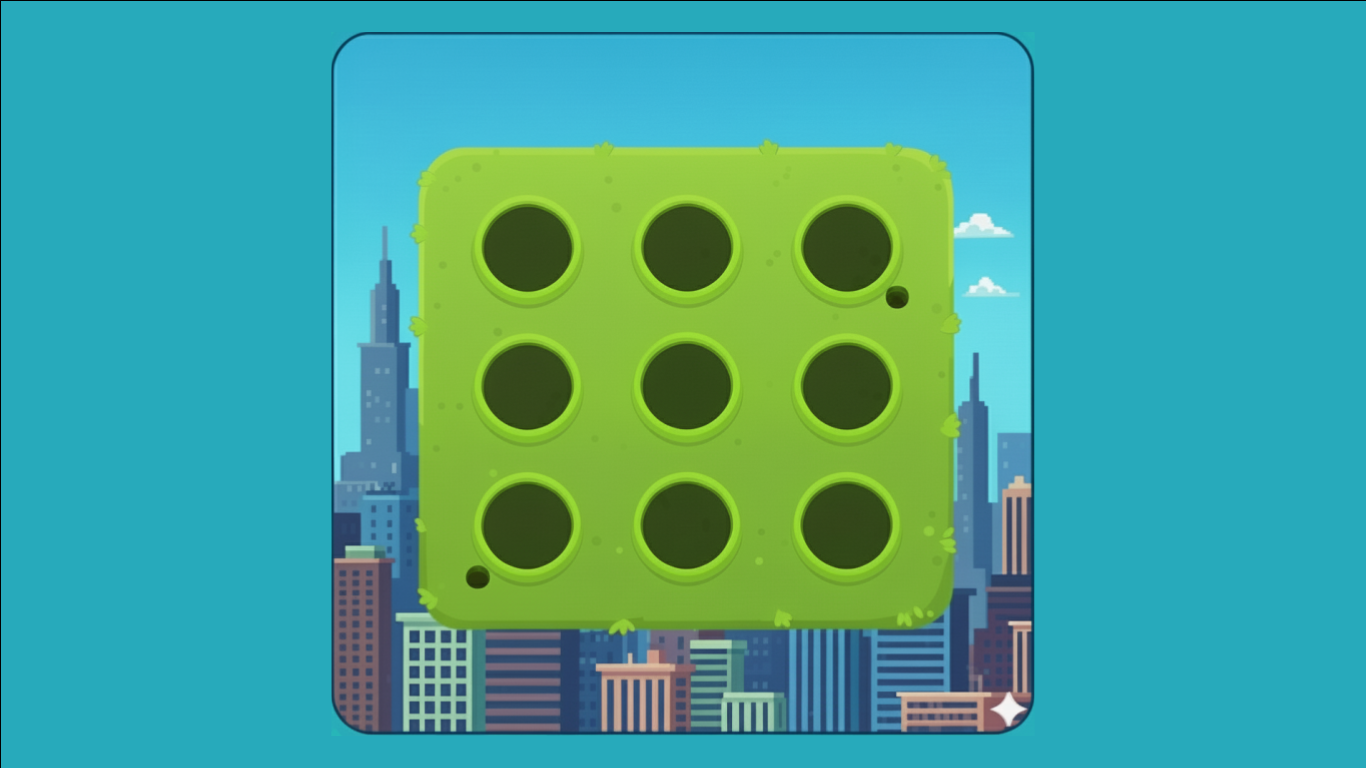
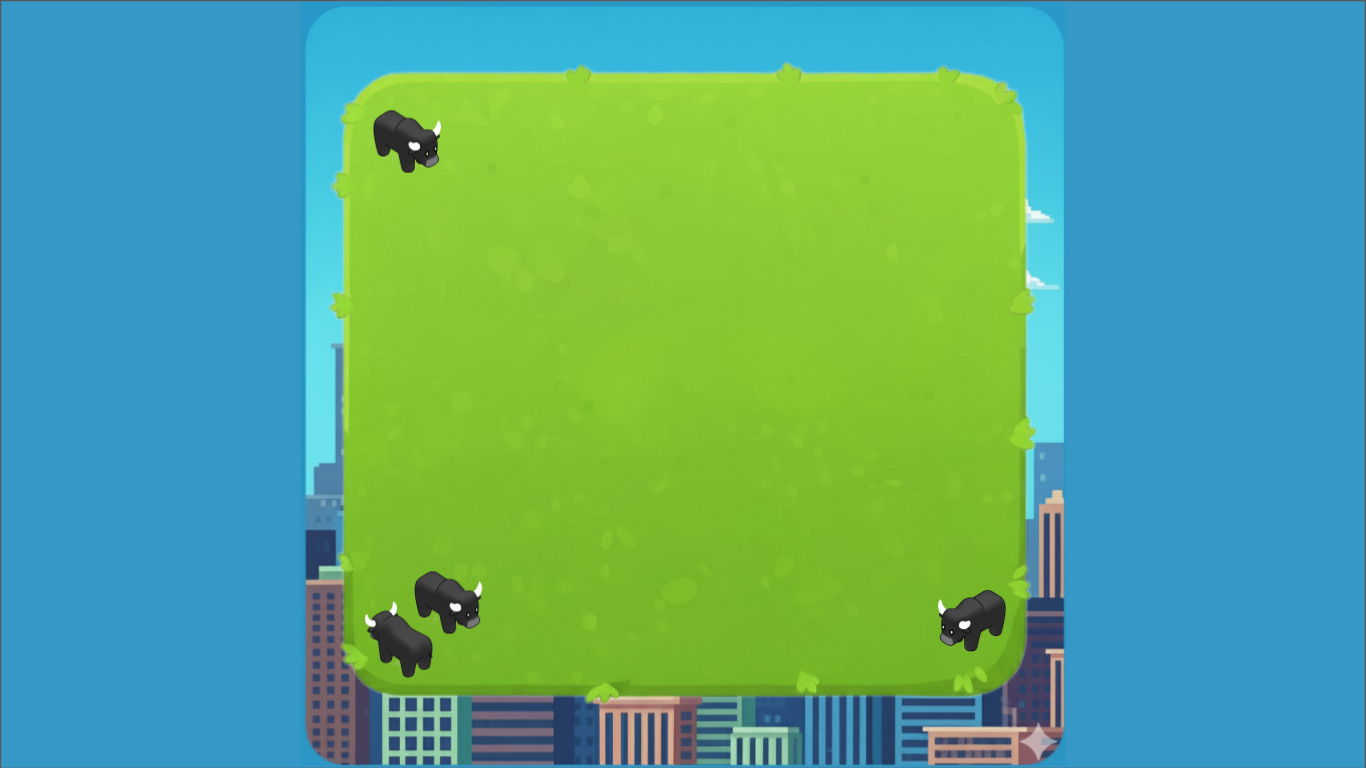
new code changes and files

diff --git a/pygame_reader2.py b/pygame_reader2.py
@@ -37,9 +37,14 @@ try:
     background_image = pygame.image.load('background.png').convert()
     background_image = pygame.transform.scale(background_image, (WIDTH, HEIGHT))
 
+    # Create a blurred version of the background image
+    downscaled_size = (WIDTH // 10, HEIGHT // 10) # Adjust blur strength here
+    downscaled_image = pygame.transform.smoothscale(background_image, downscaled_size)
+    blurred_background_image = pygame.transform.smoothscale(downscaled_image, (WIDTH, HEIGHT))
+
     # Load and scale the mole image
     mole_image = pygame.image.load('mole.png').convert_alpha()
-    mole_image = pygame.transform.scale(mole_image, (80, 80))
+    mole_image = pygame.transform.scale(mole_image, (100, 100))
 
 except pygame.error as e:
     print(f"Could not load image file: {e}")
@@ -47,9 +52,9 @@ except pygame.error as e:
 
 # --- Game State Variables ---
 mole_positions = []
-# Calculate spacing, reducing it by half as requested
-MOLE_SPACING_X = (WIDTH - 3 * mole_image.get_width()) // 16
-MOLE_SPACING_Y = (HEIGHT - 3 * mole_image.get_height()) // 16
+# Adjust spacing to make it smaller
+MOLE_SPACING_X = (WIDTH - 3 * mole_image.get_width()) // 8
+MOLE_SPACING_Y = (HEIGHT - 3 * mole_image.get_height()) // 8
 
 # Calculate the dimensions of the entire 3x3 mole grid
 grid_width = 3 * mole_image.get_width() + 2 * MOLE_SPACING_X
@@ -72,14 +77,31 @@ current_score = 0
 time_left = 0
 game_state = "waiting"
 start_time = None # New variable to store the start time for the elapsed timer
+countdown_start_time = None # New variable for the countdown timer
 
 def draw_moles(start_mode=False, hit_mode=False, miss_mode=False):
     """Draw all moles and the background, highlighting the active one with an image."""
-    # Draw the background first
-    screen.blit(background_image, (0, 0))
     
-    # NOTE: The mole holes are now part of the background image, so they are not drawn here.
+    # --- CHANGED: Updated mole hole colors to your specified RGB values ---
+    HOLE_HIGHLIGHT_COLOR = (79, 98, 54)
+    HOLE_SHADOW_COLOR = (29, 48, 4)
+    HOLE_CENTER_COLOR = (49, 68, 24)
+    # --- END CHANGED ---
 
+    HOLE_RADIUS = 60
+
+    for pos in mole_positions:
+        # Draw a dark circle slightly offset down and right for the shadow
+        shadow_center = (pos.center[0] + 3, pos.center[1] + 3)
+        pygame.draw.circle(screen, HOLE_SHADOW_COLOR, shadow_center, HOLE_RADIUS)
+        
+        # Draw the main, slightly smaller hole circle
+        pygame.draw.circle(screen, HOLE_CENTER_COLOR, pos.center, HOLE_RADIUS - 3)
+
+        # Draw a light arc or small circle for the highlight on the top-left
+        highlight_center = (pos.center[0] - 3, pos.center[1] - 3)
+        pygame.draw.circle(screen, HOLE_HIGHLIGHT_COLOR, highlight_center, HOLE_RADIUS - 5)
+        
     if start_mode:
         # On the start screen, show a mole on the center button
         center_mole_rect = mole_image.get_rect(center=mole_positions[4].center)
@@ -103,7 +125,7 @@ def draw_moles(start_mode=False, hit_mode=False, miss_mode=False):
 
 def read_game_state():
     """Reads the game state from the shared file."""
-    global active_mole_index, current_score, time_left, game_state, start_time
+    global active_mole_index, current_score, time_left, game_state, start_time, countdown_start_time
 
     if not os.path.exists(GAME_STATE_FILE):
         return
@@ -113,7 +135,11 @@ def read_game_state():
             state_data = json.load(f)
             new_game_state = state_data.get('state', 'waiting')
             
-            # Check if the game state is transitioning to "playing"
+            # Check for transitions to handle timers
+            if game_state != "countdown" and new_game_state == "countdown":
+                # Start the local countdown timer when the state changes to 'countdown'
+                countdown_start_time = time.time()
+                
             if game_state != "playing" and new_game_state == "playing":
                 # Start the elapsed time counter
                 start_time = time.time()
@@ -137,8 +163,11 @@ try:
 
         read_game_state()
 
-        # Always draw the background first in the main loop
-        screen.blit(background_image, (0, 0))
+        # Choose which background to draw based on the game state
+        if game_state == "start_screen":
+            screen.blit(blurred_background_image, (0, 0))
+        else:
+            screen.blit(background_image, (0, 0))
 
         if game_state == "waiting":
             text = font.render("Waiting for the physical game to start...", True, WHITE)
@@ -150,9 +179,14 @@ try:
             text_rect = text.get_rect(center=(WIDTH // 2, HEIGHT // 2 + 100))
             screen.blit(text, text_rect)
         elif game_state == "countdown":
-            text = font.render(str(time_left), True, COUNTDOWN_FONT_COLOR)
-            text_rect = text.get_rect(center=(WIDTH // 2, HEIGHT // 2))
-            screen.blit(text, text_rect)
+            # Calculate and display the countdown based on the local timer
+            countdown_time = 3 - (time.time() - countdown_start_time)
+            countdown_display = max(0, int(countdown_time) + 1)
+            # Only display the countdown if it's a number greater than 0
+            if countdown_display > 0:
+                text = font.render(str(countdown_display), True, COUNTDOWN_FONT_COLOR)
+                text_rect = text.get_rect(center=(WIDTH // 2, HEIGHT // 2))
+                screen.blit(text, text_rect)
         elif game_state == "playing":
             draw_moles()
             # Draw score on the screen

diff --git a/mole6_writer.py b/mole6_writer.py
@@ -72,7 +72,7 @@ def light_up_mole(light_index):
     """
     start_pixel, end_pixel = get_pixel_indices_for_light(light_index)
     for i in range(start_pixel, end_pixel):
-        plasma.set_pixel(i, MOLE_COLOR[0], MOLE_COLOR[1], MOLE_COLOR[2], brightness=1.0)
+        plasma.set_pixel(i, MOLE_COLOR[0], MOLE_COLOR[1], MOLE_COLOR[2], brightness=0.25)
     plasma.show()
 
 def turn_off_mole(light_index):
@@ -82,17 +82,17 @@ def turn_off_mole(light_index):
     if light_index is not None:
         start_pixel, end_pixel = get_pixel_indices_for_light(light_index)
         for i in range(start_pixel, end_pixel):
-            plasma.set_pixel(i, 0, 0, 0, brightness=1.0)
+            plasma.set_pixel(i, 0, 0, 0, brightness=0.25)
         plasma.show()
 
 def light_up_all_red():
     """
     Lights up all buttons with a red color for a short duration.
     """
-    plasma.set_all(255, 0, 0, brightness=1.0) # Set to red
+    plasma.set_all(255, 0, 0, brightness=0.25) # Set to red
     plasma.show()
     time.sleep(PENALTY_FLASH_DURATION)
-    plasma.set_all(0, 0, 0, brightness=0.5) # Turn all lights off
+    plasma.set_all(0, 0, 0, brightness=0.25) # Turn all lights off
     plasma.show()
 
 def countdown_sequence():
@@ -100,10 +100,10 @@ def countdown_sequence():
     Performs a visual countdown before the game starts.
     """
     # Flash all buttons blue as a "ready" signal.
-    plasma.set_all(0, 0, 255, brightness=0.5) # Blue
+    plasma.set_all(0, 0, 255, brightness=0.25) # Blue
     plasma.show()
     time.sleep(COUNTDOWN_FLASH_DURATION * 2)
-    plasma.set_all(0, 0, 0, brightness=0.5)
+    plasma.set_all(0, 0, 0, brightness=0.25)
     time.sleep(COUNTDOWN_FLASH_DURATION)
 
     # Flash a white countdown (3, 2, 1) on the first three buttons.
@@ -124,7 +124,7 @@ def light_up_pixel_group(light_index, color):
     """
     start_pixel, end_pixel = get_pixel_indices_for_light(light_index)
     for i in range(start_pixel, end_pixel):
-        plasma.set_pixel(i, color[0], color[1], color[2], brightness=0.5)
+        plasma.set_pixel(i, color[0], color[1], color[2], brightness=0.25)
     plasma.show()
 
 try:
@@ -153,7 +153,7 @@ try:
         print("Press the '5' button to start...")
         
         # Turn off all lights and only light up button 5
-        plasma.set_all(0, 0, 0, brightness=0.5)
+        plasma.set_all(0, 0, 0, brightness=0.25)
         light_up_pixel_group(KEY_TO_LIGHT_INDEX[ecodes.KEY_5], (255, 255, 255))
 
         # Wait for the '5' button press to start the game.
@@ -243,7 +243,7 @@ try:
         turn_off_mole(active_mole_light_index)
         
         # Light up all buttons white at the end of the game
-        plasma.set_all(255, 255, 255, brightness=0.5)
+        plasma.set_all(255, 255, 255, brightness=0.25)
         plasma.show()
         
         print("-" * 20)
@@ -255,7 +255,7 @@ try:
         
         print("\nGame restarting in 5 seconds...")
         time.sleep(5)
-        plasma.set_all(0, 0, 0, brightness=0.5)
+        plasma.set_all(0, 0, 0, brightness=0.25)
         plasma.show()
 
 except FileNotFoundError:
